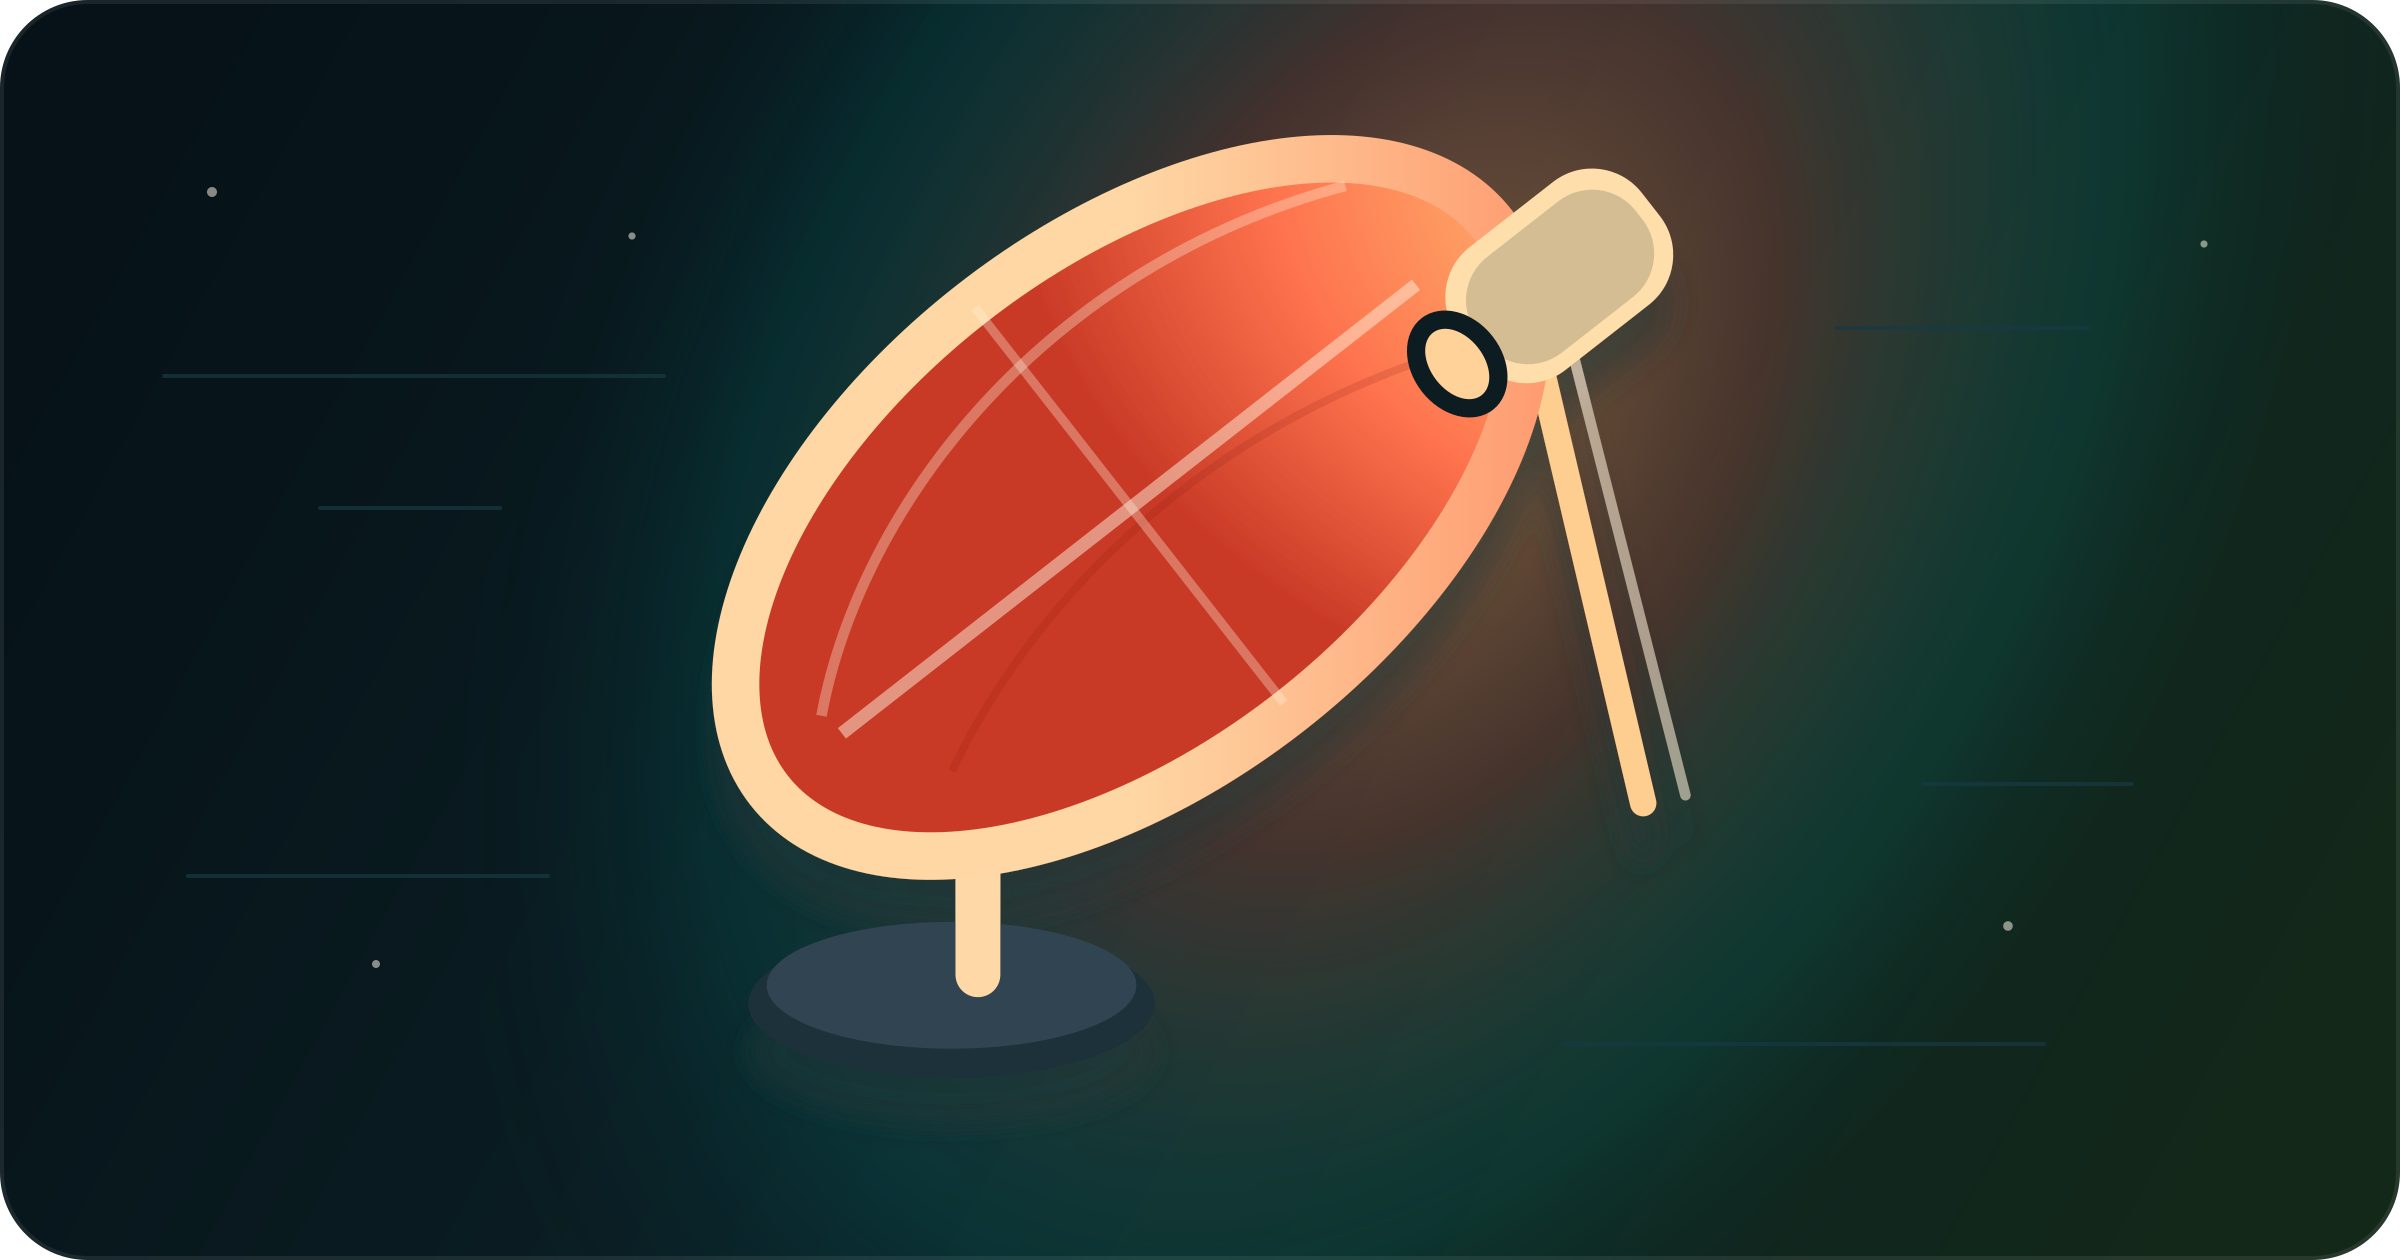
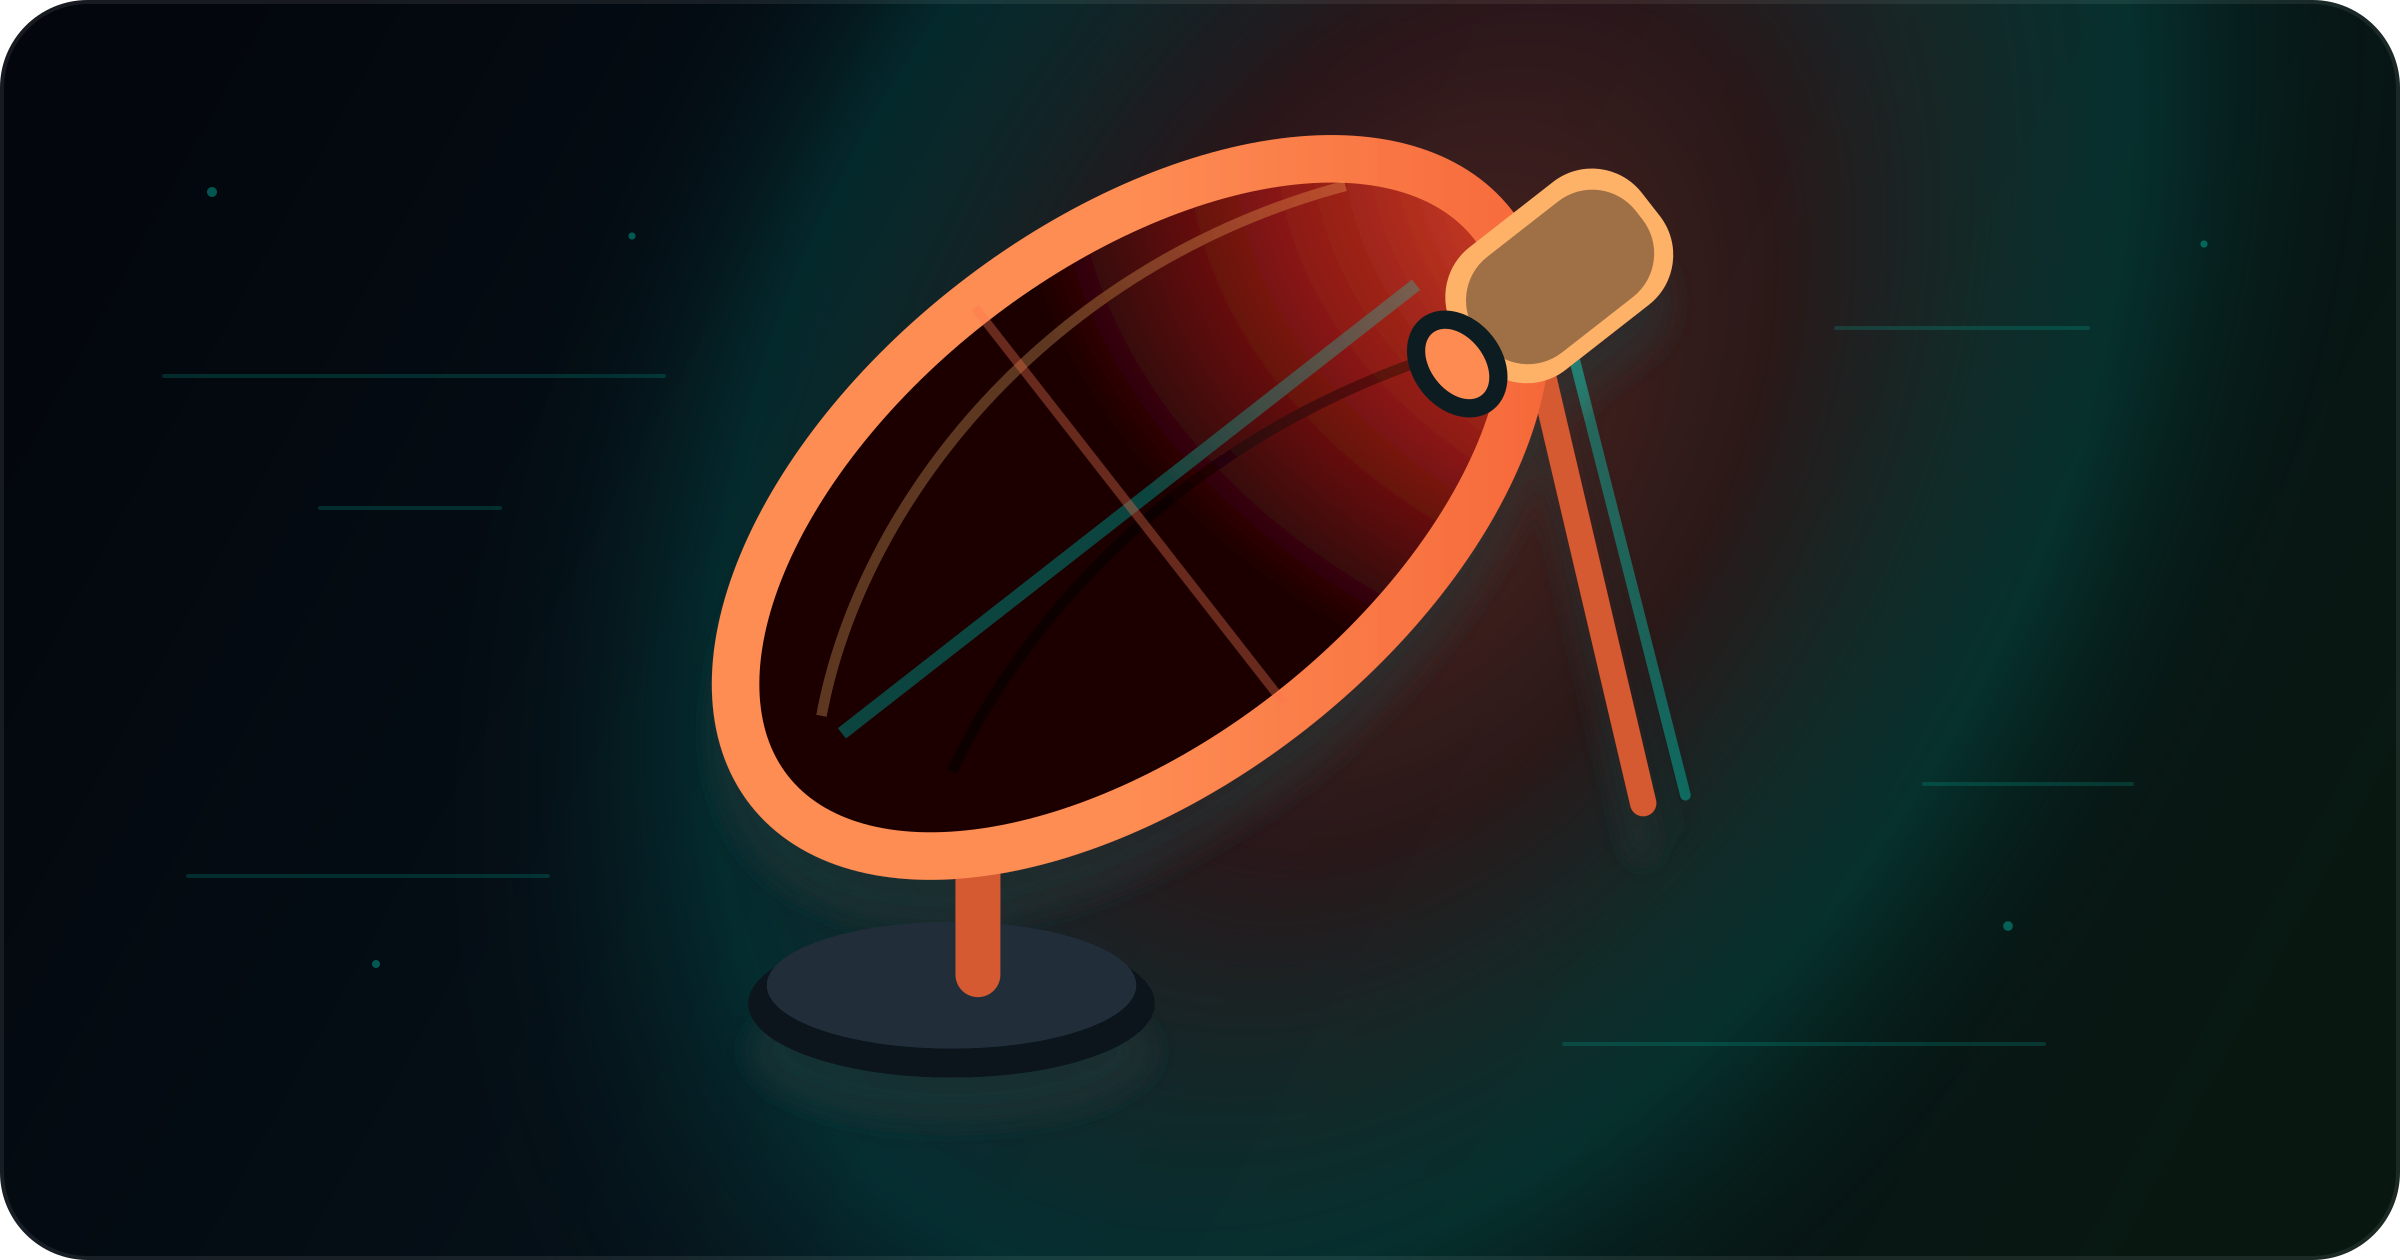
docs: refresh npm install docs

Changed region(s): [[0.2812, 0.0, 0.7812, 0.8667]]

diff --git a/README.md b/README.md
@@ -14,7 +14,7 @@ Run a suite of skill security scanners, pass the results to a judge harness, and
 Install ClawScan:
 
 ```bash
-brew install openclaw/tap/clawscan
+npm install -g @openclaw/clawscan
 ```
 
 Command-backed scanners and judges run in ClawScan's Docker runtime by default,

diff --git a/docs/index.md b/docs/index.md
@@ -9,7 +9,7 @@ Run a suite of skill security scanners, pass the results to a judge harness, and
 Install ClawScan:
 
 ```bash
-brew install openclaw/tap/clawscan
+npm install -g @openclaw/clawscan
 ```
 
 Command-backed scanners and judges run in ClawScan's Docker runtime by default,